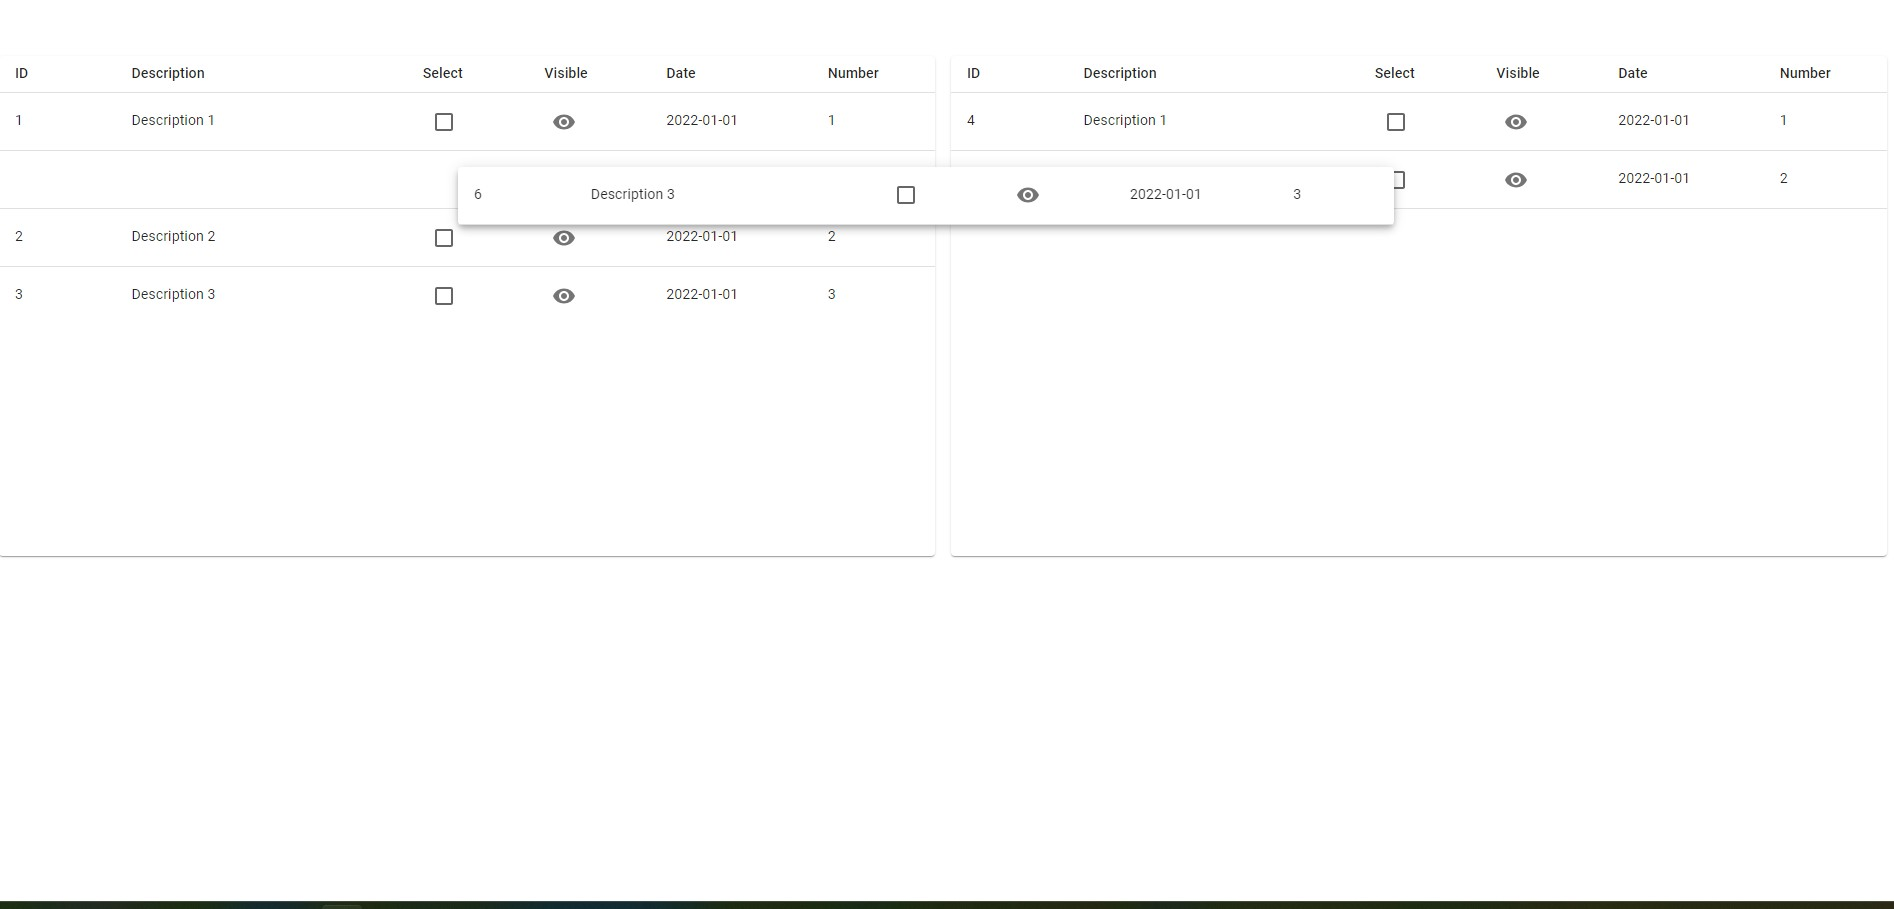
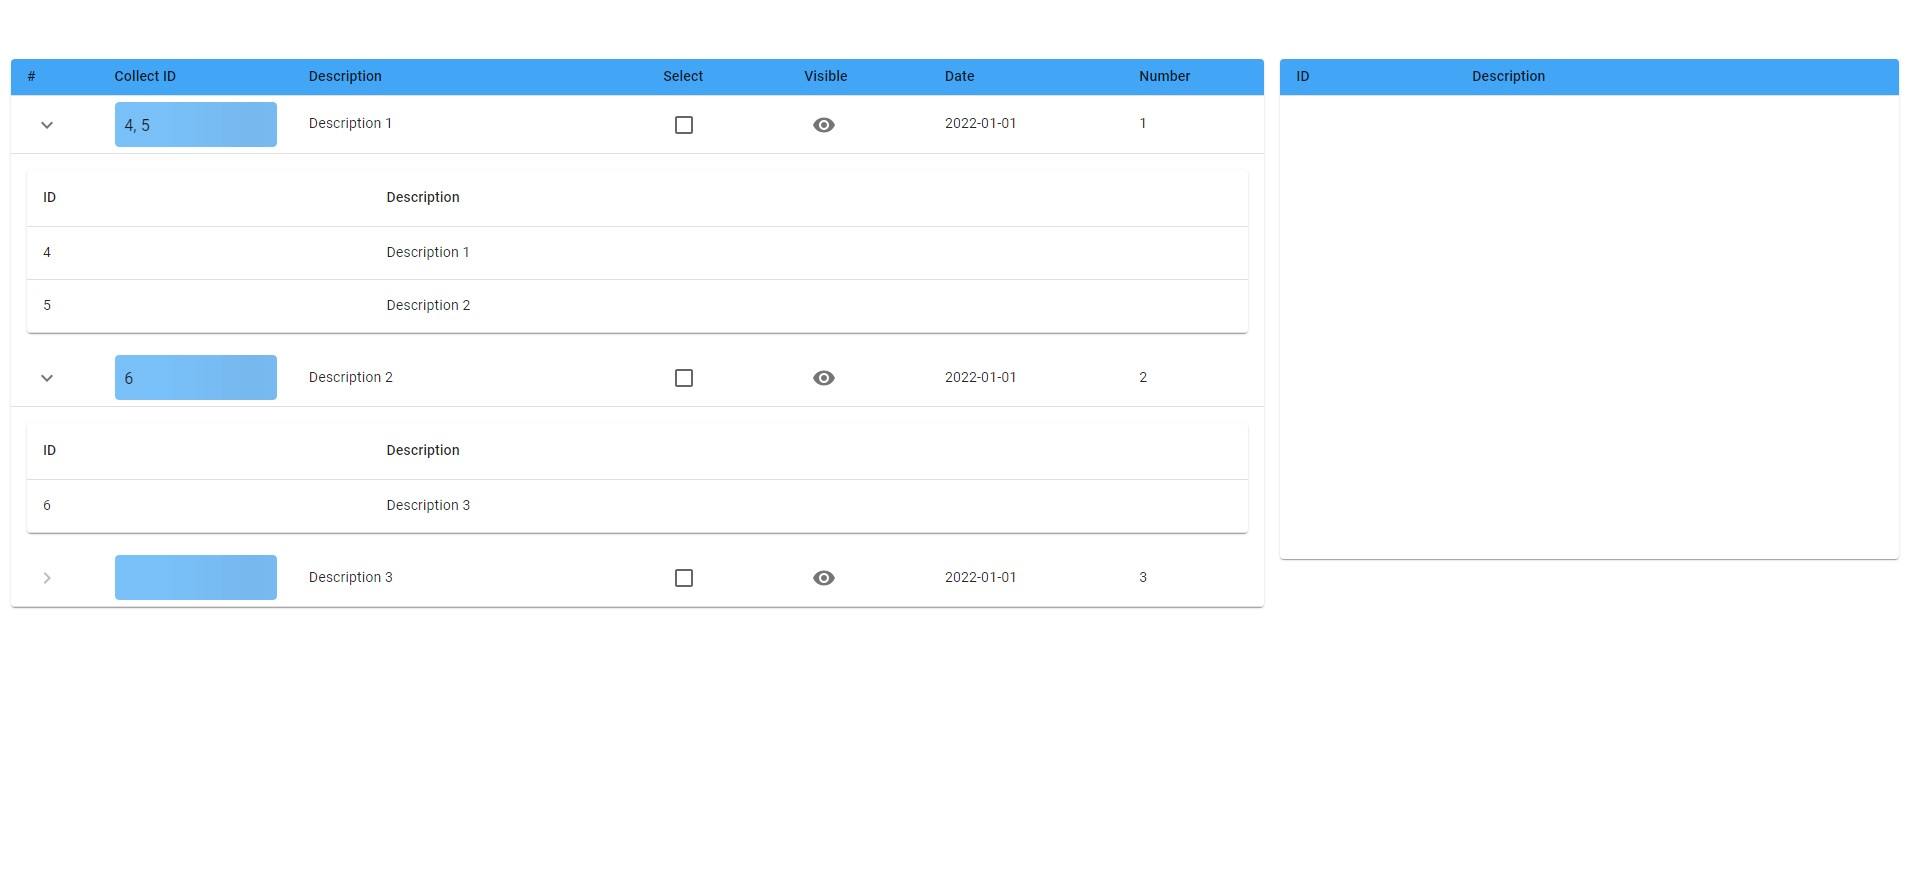
update droping table

diff --git a/src/components/droppable-list/data-rows.jsx b/src/components/droppable-list/data-rows.jsx
@@ -1,6 +1,18 @@
+import React, { useState } from 'react';
 import PropTypes from 'prop-types';
 // @mui
-import { TableBody, TableRow, TableCell, Box } from '@mui/material';
+import {
+  TableBody,
+  TableRow,
+  TableCell,
+  IconButton,
+  Table,
+  TableHead,
+  Collapse,
+  TableContainer,
+  Paper,
+} from '@mui/material';
+import { ChevronRight, KeyboardArrowDown } from '@mui/icons-material';
 
 // ----------------------------------------------------------------------
 
@@ -13,28 +25,98 @@ DroppableListDataRows.propTypes = {
 // ----------------------------------------------------------------------
 
 export default function DroppableListDataRows({ id, headers, rows = [] }) {
+  const [selectedIds, setSelectedIds] = useState([]);
+
   return (
     <TableBody>
       {rows.map((row, index) => {
         return (
-          <Box key={`droppable-row-${index}`} component={TableRow}>
-            {headers
-              .filter(({ hidden }) => !hidden)
-              .map(({ field, align = 'left', width, renderCell }) => {
-                return (
-                  <TableCell
-                    key={`${row.id}-${field}`}
-                    align={align}
-                    width={width}
-                    height={45}
-                  >
-                    {renderCell ? renderCell(row[field], row) : row[field]}
-                  </TableCell>
-                );
-              })}
-          </Box>
+          <React.Fragment key={`droppable-row-${index}`}>
+            <TableRow>
+              <TableCell>
+                <IconButton
+                  disabled={!row.childrens?.length}
+                  onClick={() => {
+                    if (selectedIds.includes(index)) {
+                      setSelectedIds([
+                        ...selectedIds.filter((id) => id !== index),
+                      ]);
+                    } else {
+                      setSelectedIds([...selectedIds, index]);
+                    }
+                  }}
+                >
+                  {selectedIds.includes(index) ? (
+                    <KeyboardArrowDown />
+                  ) : (
+                    <ChevronRight />
+                  )}
+                </IconButton>
+              </TableCell>
+              {headers
+                .filter(({ hidden, hideCell }) => !hidden && !hideCell)
+                .map(({ field, align = 'left', width, renderCell }) => {
+                  return (
+                    <TableCell
+                      key={`${row.id}-${field}`}
+                      align={align}
+                      width={width}
+                      height={45}
+                    >
+                      {renderCell ? renderCell(row[field], row) : row[field]}
+                    </TableCell>
+                  );
+                })}
+            </TableRow>
+            {row.childrens?.length && (
+              <CustomChildrenTable
+                headers={headers}
+                datas={row.childrens}
+                open={selectedIds.includes(index)}
+              />
+            )}
+          </React.Fragment>
         );
       })}
     </TableBody>
+  );
+}
+
+// ----------------------------------------------------------------------
+function CustomChildrenTable({ headers, datas, open }) {
+  return (
+    <TableRow>
+      <TableCell colSpan={headers.length} sx={{ padding: 0, border: 'none' }}>
+        <Collapse
+          in={open}
+          sx={{
+            ...(open && {
+              padding: 2,
+            }),
+          }}
+        >
+          <TableContainer component={Paper}>
+            <Table>
+              <TableHead>
+                <TableRow>
+                  <TableCell>ID</TableCell>
+                  <TableCell>Description</TableCell>
+                </TableRow>
+              </TableHead>
+              <TableBody>
+                {datas?.map(({ id, description }) => {
+                  return (
+                    <TableRow key={`children-row-${id}`}>
+                      <TableCell>{id}</TableCell>
+                      <TableCell>{description}</TableCell>
+                    </TableRow>
+                  );
+                })}
+              </TableBody>
+            </Table>
+          </TableContainer>
+        </Collapse>
+      </TableCell>
+    </TableRow>
   );
 }

diff --git a/src/components/draggable-list/droppable-context.jsx b/src/components/draggable-list/droppable-context.jsx
@@ -13,9 +13,7 @@ export default function DroppableProvider({ datas, onChangeData, children }) {
     width: 1,
     borderRadius: 1,
     bgcolor: (theme) => alpha(theme.palette.primary.light, 0.7),
-    transition: '300ms',
     ...(isDraggingOver && {
-      transform: 'translate(5px, -5px)',
       bgcolor: (theme) => alpha(theme.palette.primary.main, 1),
       '&::after': {
         background:
@@ -61,8 +59,40 @@ export default function DroppableProvider({ datas, onChangeData, children }) {
     return result;
   };
 
+  const replace = (
+    datas,
+    sourceId,
+    destinationId,
+    sourceName,
+    destinationName
+  ) => {
+    const newItem = datas[sourceName][sourceId];
+
+    const newSourceData = datas[sourceName].filter(
+      (_, index) => index !== sourceId
+    );
+
+    const newDestinationData = [
+      ...datas[destinationName].map((item) => {
+        if (item.id === Number(destinationId)) {
+          return {
+            ...item,
+            childrens: [...(item.childrens || []), newItem],
+          };
+        }
+        return item;
+      }),
+    ];
+
+    const result = {
+      ...datas,
+      [sourceName]: newSourceData,
+      [destinationName]: newDestinationData,
+    };
+    return result;
+  };
+
   const onDragEnd = (result) => {
-    console.log(result);
     if (!result.destination) return;
     const { source, destination } = result;
     if (source.droppableId === destination.droppableId) {
@@ -79,25 +109,14 @@ export default function DroppableProvider({ datas, onChangeData, children }) {
       const destinationName = destination.droppableId.split('.')[0];
       const destinationId = destination.droppableId.split('.')[1];
 
-      const newItem = datas[source.droppableId][source.index];
+      const newData = replace(
+        datas,
+        source.index,
+        destinationId,
+        source.droppableId,
+        destinationName
+      );
 
-      const newDestinationData = [
-        ...datas[destinationName].map((item) => {
-          console.log(item.id);
-          if (item.id === Number(destinationId)) {
-            return {
-              ...item,
-              collect_id: newItem.id,
-            };
-          }
-          return item;
-        }),
-      ];
-
-      const newData = {
-        ...datas,
-        [destinationName]: newDestinationData,
-      };
       onChangeData(newData);
     }
   };

diff --git a/src/sections/main-list.jsx b/src/sections/main-list.jsx
@@ -1,5 +1,5 @@
 // @mui
-import { Checkbox, IconButton, Skeleton } from '@mui/material';
+import { Box, Checkbox, IconButton, Skeleton, Typography } from '@mui/material';
 import { Visibility } from '@mui/icons-material';
 // hook
 import useDragDrop from '../hooks/use-drag-drop';
@@ -19,28 +19,58 @@ export default function MainList() {
       hidden: true,
     },
     {
+      field: 'collapse',
+      headerName: '#',
+      width: 50,
+      hideCell: true,
+    },
+    {
       field: 'collect_id',
       headerName: 'Collect ID',
       width: 150,
       renderCell: (value, row) => {
         return (
-          <>
+          <Box sx={{ position: 'relative' }}>
             {value ? (
               value
             ) : (
               <Droppable droppableId={`main.${row.id}`}>
                 {(provided, snapshot) => (
-                  <Skeleton
-                    {...provided.droppableProps}
-                    ref={provided.innerRef}
-                    variant="rectangular"
-                    animation="wave"
-                    sx={getDropStyle(snapshot.isDraggingOver)}
-                  />
+                  <Box
+                    sx={{
+                      position: 'relative',
+                      transition: '300ms',
+                      ...(snapshot.isDraggingOver && {
+                        transform: 'translate(5px, -5px)',
+                      }),
+                    }}
+                  >
+                    <Skeleton
+                      {...provided.droppableProps}
+                      ref={provided.innerRef}
+                      variant="rectangular"
+                      animation="wave"
+                      sx={getDropStyle(snapshot.isDraggingOver)}
+                    />
+
+                    <Box
+                      sx={{
+                        position: 'absolute',
+                        top: 0,
+                        left: 0,
+                        width: 1,
+                        padding: 1.2,
+                      }}
+                    >
+                      <Typography variant="subtitle1">
+                        {row.childrens?.map(({ id }) => id).join(', ')}
+                      </Typography>
+                    </Box>
+                  </Box>
                 )}
               </Droppable>
             )}
-          </>
+          </Box>
         );
       },
     },

diff --git a/README.md b/README.md
@@ -1,13 +1,12 @@
 # Drag & Drop between two tables MUI/React
 
->=Node.js 18.17.1
+> =Node.js 18.17.1
 
-![Preview Screen](preview.jpg)
+![Alt text](preview.jpg)
 
 ## Installation
- 
+
     yarn install;
     yarn start;
 
 start! http://localhost:3000
- 
